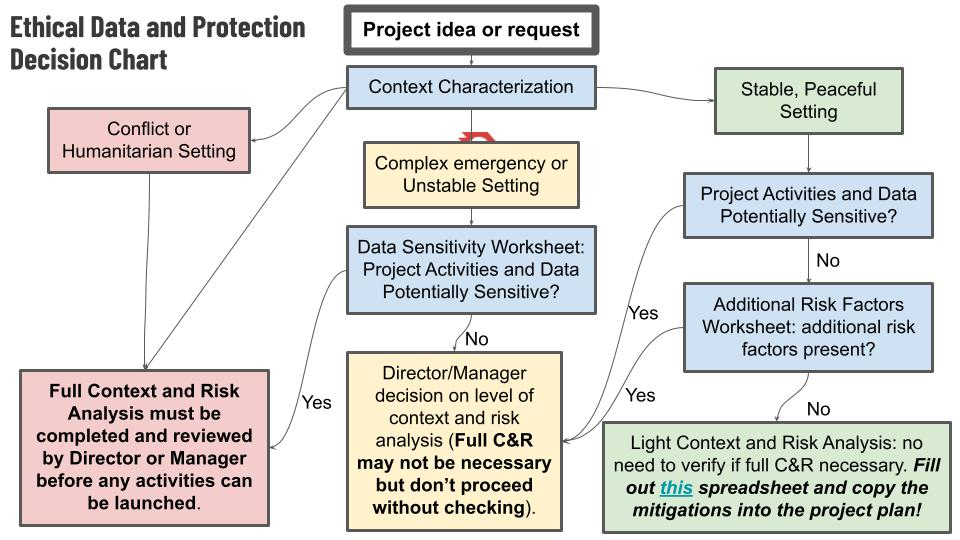
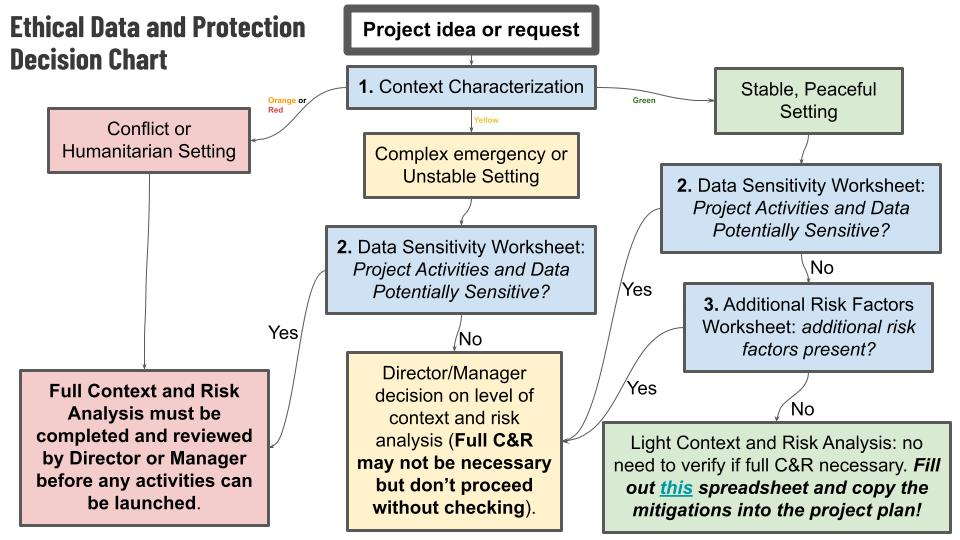
replace flowchart image with the updated one where nodes match spreadsheet tabs

diff --git a/README.md b/README.md
@@ -13,11 +13,9 @@ First and foremost, this toolkit represents a process to think through Protectio
 
 For field mapping projects launched, managed, or directly supported by HOT, the project lead should complete the spreadsheet above *before beginning project activities*. 
 
-![Flowchart](images/Ethical_Data_and_Protection_Decision_Flowchart.jpg)
+![Flowchart](images/Ethical_Data_and_Protection_Decision_Flowchart.jpg) 
 
-There are several worksheets associated with and linked to the checklist
-
-These worksheets represent the *decision-making nodes* in the flowchart, and are simple single-page slides with straighforward descriptions to match the context, activities, and data of the proposed project.
+Each blue node in the flowchart is a *decision-making node*, and links to a tab in the spreadsheet. For example, the Context Categorization node corresponds to a Context Categorization tab in the spreadsheet, which provides a set of criteria and examples to guide the user in a decision about the inherent protection risk level of the context they are considering working in.
 
 ## How to get the toolkit
 This is a GitHub repo, which is obviously somewhat tailored for people who are technically inclined. Fear not; it's mostly documents, spreadsheets, and slide decks, and [is available in a Google Drive folder](https://drive.google.com/drive/folders/11C_ltiwqzSP0TuUNVkVlUuTRJU7p6Tmi?usp=sharing) as well!
